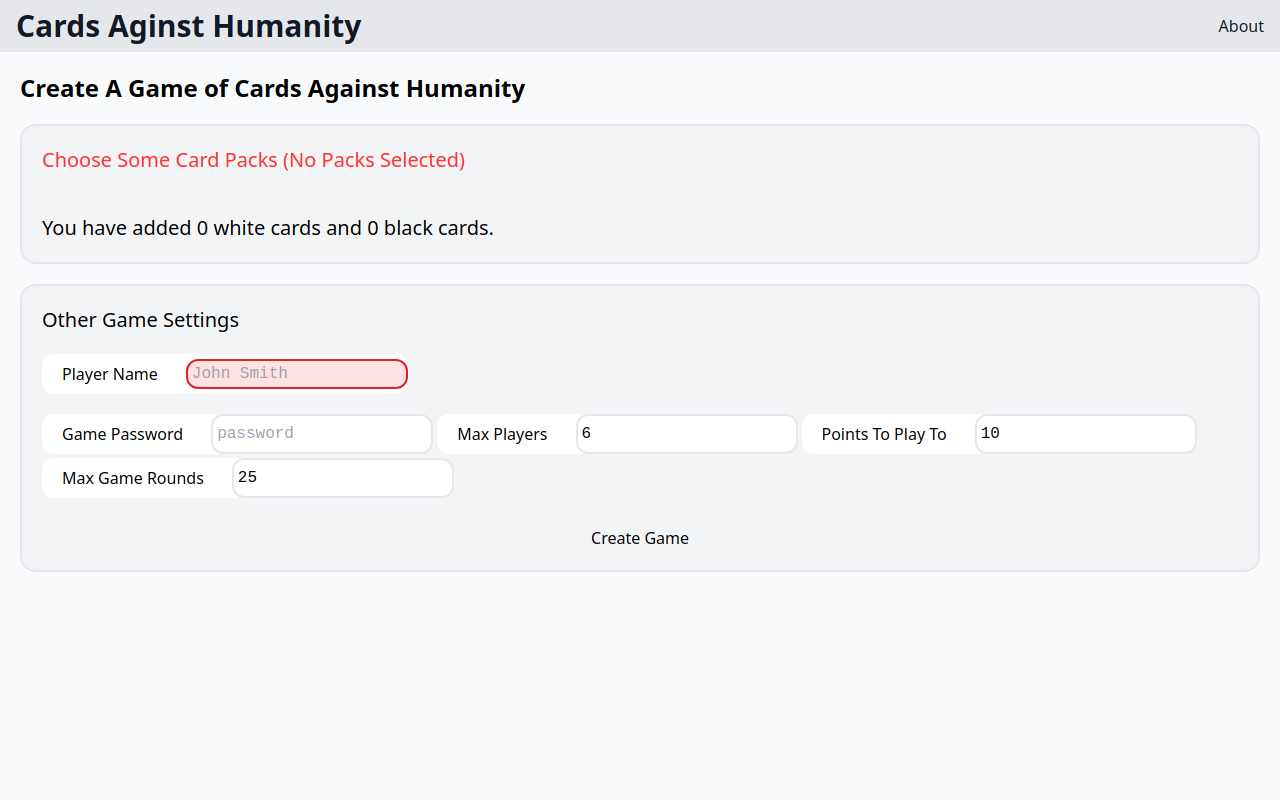
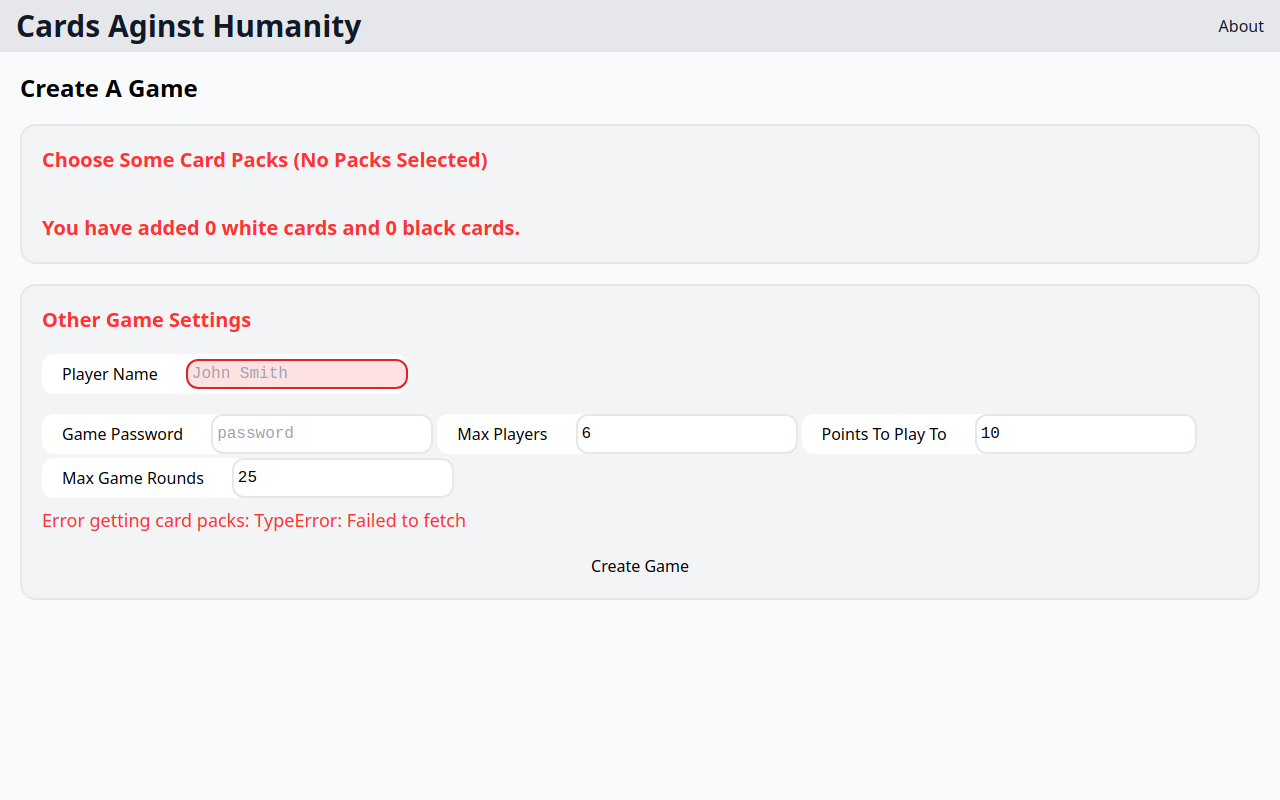
feat: added better error loggin

diff --git a/cahfrontend/src/pages/create.tsx b/cahfrontend/src/pages/create.tsx
@@ -20,14 +20,20 @@ type CardPack = GameLogicCardPack & Checked;
 export default function Create() {
   const navigate = useNavigate();
   const [packs, setPacks] = createSignal<CardPack[]>([]);
+  const [errorMessage, setErrorMessage] = createSignal("");
   onMount(async () => {
-    const packs = await apiClient.res.packsList();
-    const cardPacksList: CardPack[] = [];
-    const packData = packs.data;
-    for (let cardId in packData) {
-      cardPacksList.push({ ...packData[cardId], checked: false });
+    try {
+      const packs = await apiClient.res.packsList();
+      const cardPacksList: CardPack[] = [];
+      const packData = packs.data;
+      for (let cardId in packData) {
+        cardPacksList.push({ ...packData[cardId], checked: false });
+      }
+      setPacks(cardPacksList.sort((a, b) => a.name.localeCompare(b.name)));
+    } catch (err) {
+      console.error(err);
+      setErrorMessage(`Error getting card packs: ${err}`);
     }
-    setPacks(cardPacksList.sort((a, b) => a.name.localeCompare(b.name)));
   });
 
   const settings: Settings = {
@@ -38,7 +44,6 @@ export default function Create() {
   };
   const [selectedPacks, setSelectedPacks] = createSignal<string[]>([]);
   const [playerName, setPlayerName] = createSignal("");
-  const [errorMessage, setErrorMessage] = createSignal("");
   const [gameSettings, setGameSettings] = createSignal(settings);
 
   const whiteCards = (): number => {

diff --git a/e2e/service_starter_test.go b/e2e/service_starter_test.go
@@ -65,6 +65,8 @@ type WithServicesSuite struct {
 func (s *WithServicesSuite) startFrontend() {
 	log.Println("Starting frontend")
 	s.frontendProcess = exec.Command("./e2e-start.sh")
+  s.frontendProcess.Stdout = log.Writer()
+  s.frontendProcess.Stderr = log.Writer()
 	err := s.frontendProcess.Start()
 	if err != nil {
 		log.Fatalf("Cannot start frontend: %s", err)
@@ -75,6 +77,8 @@ func (s *WithServicesSuite) startFrontend() {
 func (s *WithServicesSuite) startBackend() {
 	log.Println("Starting backend")
 	s.backendProcess = exec.Command("../backend/backend")
+  s.backendProcess.Stdout = log.Writer()
+  s.backendProcess.Stderr = log.Writer()
 	err := s.backendProcess.Start()
 	if err != nil {
 		log.Fatalf("Cannot start backend: %s", err)

diff --git a/cahfrontend/src/README.md b/cahfrontend/src/README.md
@@ -3,6 +3,6 @@
 Create a .env file to override the settings, below are the defaults.
 
 ```env
-VITE_API_BASE_URL=http://localhost:8080
+VITE_API_BASE_URL=http://localhost:8080/
 VITE_WS_BASE_URL=http://localhost:8080/games/join
 ```
